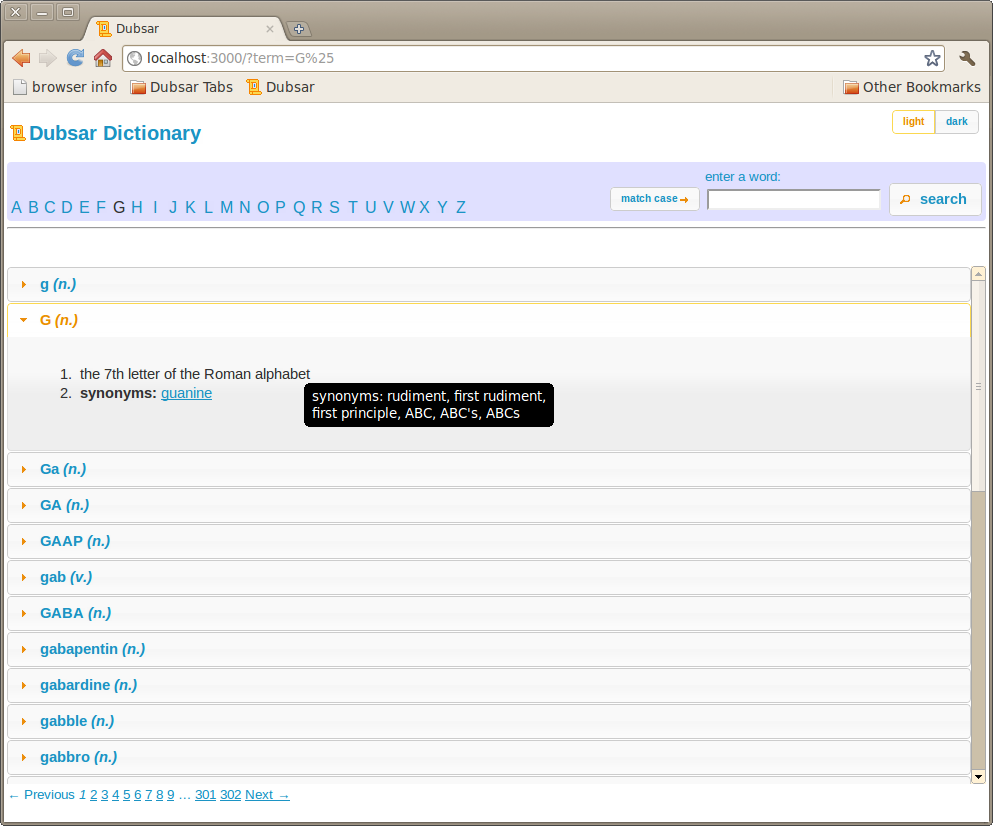
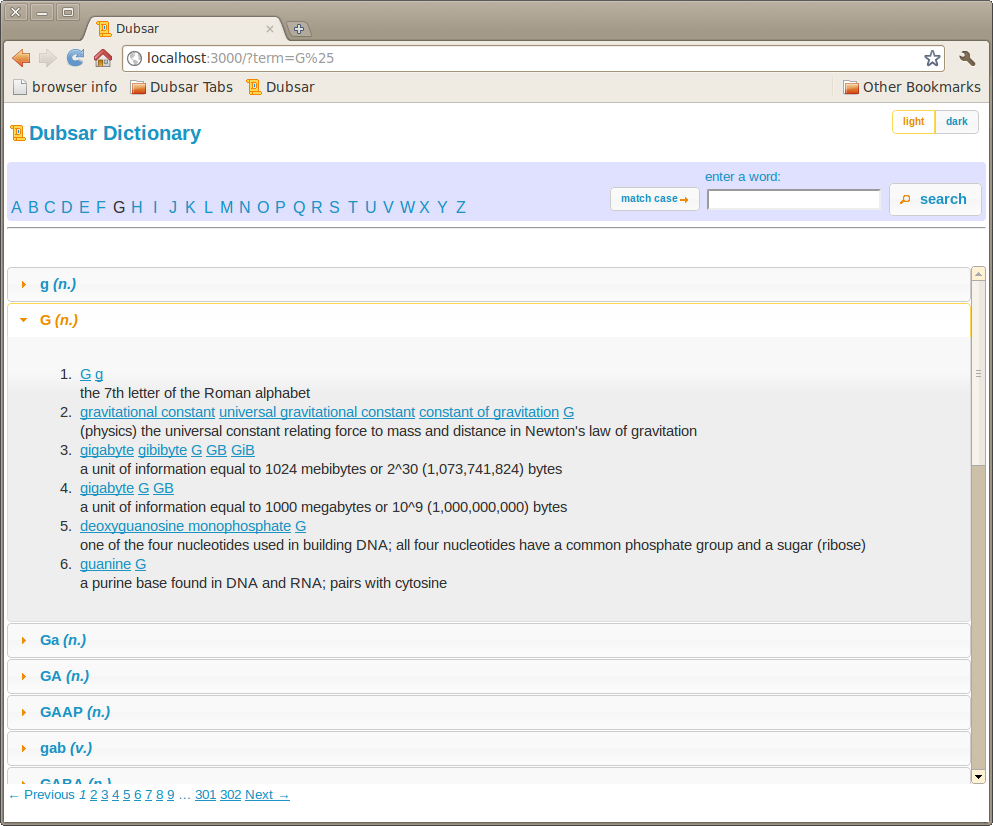
big data-model change to separate out synsets

Changed region(s): [[0.0, 0.4237, 0.9678, 0.9685], [0.9678, 0.5448, 0.999, 0.6053]]

diff --git a/db/seeds.rb b/db/seeds.rb
@@ -1,54 +1,32 @@
-# This file should contain all the record creation needed to seed the database with its default values.
-# The data can then be loaded with the rake db:seed (or created alongside the db with db:setup).
-#
-# Examples:
-#
-#   cities = City.create([{ :name => 'Chicago' }, { :name => 'Copenhagen' }])
-#   Mayor.create(:name => 'Daley', :city => cities.first)
-
-def find_or_create_word(name, part_of_speech)
-    w = Word.find_by_name_and_part_of_speech(name, part_of_speech) ||
-      Word.new(:name => name, :part_of_speech => part_of_speech)
-end
-
-%w{adj adv noun verb}.each do |part|
-  part_of_speech = case part
+%w{adj adv noun verb}.each do |sfx|
+  part_of_speech = case sfx
   when 'adj'
     'adjective'
   when 'adv'
     'adverb'
   else
-    part
+    sfx
   end
 
   puts "#{Time.now} loading #{part_of_speech.pluralize}"
-  total_count = Word.count
-  File.open(File.join(File.dirname(__FILE__), 'defaults', "data.#{part}")).each do |line|
+  synset_count = 0
+  File.open(File.join(File.dirname(__FILE__), 'defaults', "data.#{sfx}")).each do |line|
     next if line =~ /^\s/
 
     left, defn = line.split('| ')
-    synset_offset, lex_filenum, ss_type, w_cnt, name, lex_id, *rest = left.split(' ')
+    synset_offset, lex_filenum, ss_type, w_cnt, *rest = left.split(' ')
     w_cnt = w_cnt.to_i
-    name.gsub!('_', ' ')
 
-    w = find_or_create_word name, part_of_speech
-    w.definitions.build :body => defn
-
-    rest.slice(0, 2*(w_cnt-1)).each_slice(2) do |a|
+    synset = Synset.new definition: defn
+    rest.slice(0, 2*w_cnt).each_slice(2) do |a|
       s = a[0].gsub('_', ' ')
-      synset = w.synset
       synonym = Word.find_by_name_and_part_of_speech s, part_of_speech
-      next if synonym and synset and synset.words.include?(synonym)
-
-      synset = w.build_synset unless synset
       next if synonym and synset.words << synonym
 
-      synset.words.build :name => s, :part_of_speech => part_of_speech
-      synset.save
-    end if w_cnt > 1
-    w.save
+      synset.words.build name: s, part_of_speech: part_of_speech
+    end
+    synset.save
+    synset_count += 1
   end
-  new_count = Word.count
-  puts "#{Time.now} loaded #{new_count-total_count} #{part_of_speech.pluralize}"
-  total_count = new_count
+  puts "#{Time.now} loaded #{Word.count(:conditions => { :part_of_speech => part_of_speech})} #{part_of_speech.pluralize} (#{synset_count} synsets)"
 end

diff --git a/db/schema.rb b/db/schema.rb
@@ -10,29 +10,20 @@
 #
 # It's strongly recommended to check this file into your version control system.
 
-ActiveRecord::Schema.define(:version => 20101009191559) do
-
-  create_table "definitions", :force => true do |t|
-    t.integer  "word_id"
-    t.text     "body",       :null => false
-    t.datetime "created_at"
-    t.datetime "updated_at"
-  end
+ActiveRecord::Schema.define(:version => 20101017043743) do
 
   create_table "synsets", :force => true do |t|
-    t.datetime "created_at"
-    t.datetime "updated_at"
+    t.text "definition", :null => false
+  end
+
+  create_table "synsets_words", :id => false, :force => true do |t|
+    t.integer "synset_id"
+    t.integer "word_id"
   end
 
   create_table "words", :force => true do |t|
-    t.string   "name",           :null => false
-    t.string   "part_of_speech", :null => false
-    t.integer  "synset_id"
-    t.datetime "created_at"
-    t.datetime "updated_at"
+    t.string "name",           :null => false
+    t.string "part_of_speech", :null => false
   end
-
-  add_index "words", ["name", "part_of_speech"], :name => "index_words_on_name_and_part_of_speech"
-  add_index "words", ["name"], :name => "index_words_on_name"
 
 end

diff --git a/app/models/word.rb b/app/models/word.rb
@@ -3,12 +3,11 @@ require 'string'
 # A single +Word+ entry represents a word and part of speech.  For
 # example, _run_ will have two separate entries as a noun and a verb.
 class Word < ActiveRecord::Base
-  belongs_to :synset
-  has_many :definitions, :dependent => :delete_all
+  has_and_belongs_to_many :synsets
 
-  validates :name, :presence => true
-  validates :part_of_speech, :presence => true,
-    :inclusion => { :in =>
+  validates :name, presence: true
+  validates :part_of_speech, presence: true,
+    inclusion: { :in =>
     %w{adjective
        adverb
        conjunction
@@ -17,11 +16,6 @@ class Word < ActiveRecord::Base
        preposition
        pronoun
        verb} }
-
-  # Array of strings
-  def synonyms
-    synset.words.reject{ |w| w == self }.map{ |w| w.name } if synset
-  end
 
   # Abbreviation for the full part_of_speech
   def pos

diff --git a/test/unit/word_test.rb b/test/unit/word_test.rb
@@ -1,10 +1,9 @@
 require 'test_helper'
 
 class WordTest < ActiveSupport::TestCase
-  should validate_presence_of   :name
+  should validate_presence_of :name
   should validate_presence_of :part_of_speech
-  should have_many :definitions
-  should belong_to :synset
+  should have_and_belong_to_many :synsets
 
   should 'accept a valid adjective' do
     assert_valid words(:noun)
@@ -52,13 +51,14 @@ class WordTest < ActiveSupport::TestCase
 
     assert_equal well_adverb.name, well_noun.name
     assert_not_equal well_adverb.part_of_speech, well_noun.part_of_speech
+    assert_not_equal well_adverb, well_noun
   end
 
   should 'recognize synonyms' do
     food = words :noun
     grub = words :grub
 
-    assert_equal food.synset, grub.synset
+    assert food.synsets.any? { |s| s.words.include? grub }
   end
 
 end

diff --git a/db/migrate/20101017043743_create_words.rb b/db/migrate/20101017043743_create_words.rb
@@ -1,0 +1,12 @@
+class CreateWords < ActiveRecord::Migration
+  def self.up
+    create_table :words do |t|
+      t.string     :name          , :null => false
+      t.string     :part_of_speech, :null => false
+    end
+  end
+
+  def self.down
+    drop_table :words
+  end
+end

diff --git a/db/migrate/20101017043609_create_synsets_words.rb b/db/migrate/20101017043609_create_synsets_words.rb
@@ -1,0 +1,12 @@
+class CreateSynsetsWords < ActiveRecord::Migration
+  def self.up
+    create_table :synsets_words, :id => false do |t|
+      t.references :synset
+      t.references :word
+    end
+  end
+
+  def self.down
+    drop_table :synsets_words
+  end
+end

diff --git a/app/models/synset.rb b/app/models/synset.rb
@@ -1,4 +1,6 @@
 # A set of synonymous words.
 class Synset < ActiveRecord::Base
-  has_many :words, :dependent => :nullify
+  has_and_belongs_to_many :words
+
+  validates :definition, presence: true
 end

diff --git a/test/unit/synset_test.rb b/test/unit/synset_test.rb
@@ -1,5 +1,6 @@
 require 'test_helper'
 
 class SynsetTest < ActiveSupport::TestCase
-  should have_many :words
+  should have_and_belong_to_many :words
+  should validate_presence_of :definition
 end

diff --git a/db/migrate/20101017043706_create_synsets.rb b/db/migrate/20101017043706_create_synsets.rb
@@ -1,8 +1,7 @@
 class CreateSynsets < ActiveRecord::Migration
   def self.up
     create_table :synsets do |t|
-
-      t.timestamps
+      t.text :definition, :null => false
     end
   end
 
